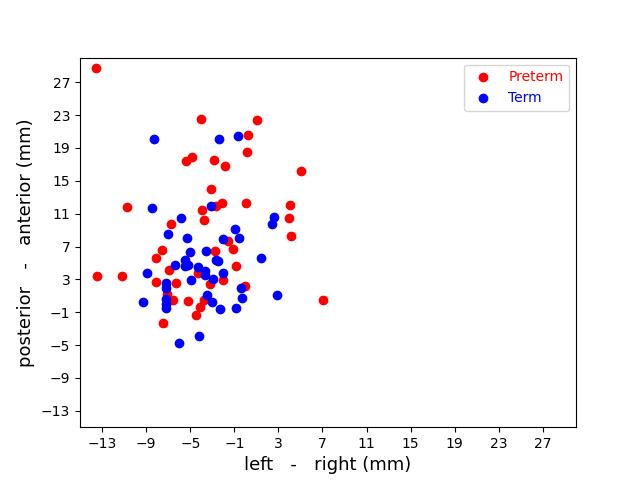
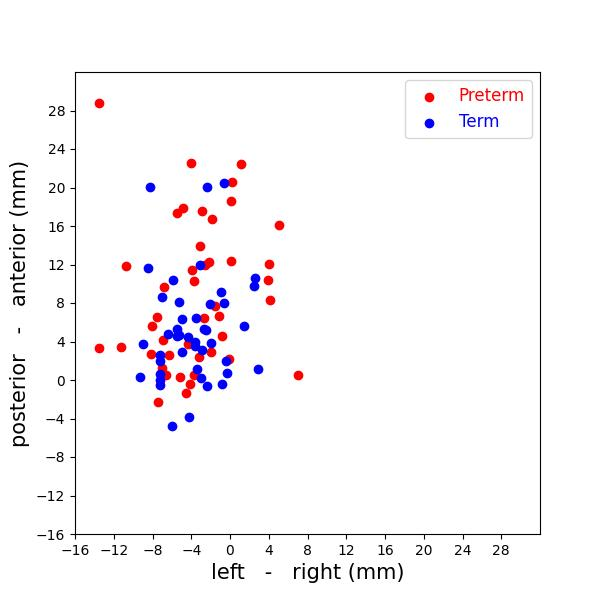
updates to previous

diff --git a/HEADCOIL/head_position/Centroid_plot.py b/HEADCOIL/head_position/Centroid_plot.py
@@ -49,24 +49,28 @@ print(f"The max of x prem is: {max(xprem)}")
 print()
 
 plt.figure(1)
+plt.subplots(figsize=(6, 6))
 # sns.kdeplot(x=(xprem), y=(yprem), color='red')
 # sns.kdeplot(x=(xterm), y=(yterm), color='blue')
 plt.scatter(x=(xprem), y=(yprem), c='red')
 plt.scatter(x=(xterm), y=(yterm), c='blue')
-plt.xticks(range(int(min(xprem)),int(max(yprem))+1,4))
-plt.yticks(range(int(min(xprem)),int(max(yprem))+1,4))
-plt.xlim([-15,30])
-plt.ylim([-15,30])
+# plt.xticks(range(int(min(xprem)),int(max(yprem))+1,4))
+# plt.yticks(range(int(min(xprem)),int(max(yprem))+1,4))
+plt.xticks(range(-16,32,4))
+plt.yticks(range(-16,32,4))
+
+plt.xlim([-16,32])
+plt.ylim([-16,32])
 # plt.title('Centroids of brainmasks', fontsize=15, fontweight="bold")
-plt.xlabel('left   -   right (mm)', fontsize=13)
-plt.ylabel('posterior   -   anterior (mm)', fontsize=13)
-plt.legend(('Preterm', 'Term'), loc='upper right', fontsize=10, labelcolor=('red', 'blue'))
+plt.xlabel('left   -   right (mm)', fontsize=15)
+plt.ylabel('posterior   -   anterior (mm)', fontsize=15)
+plt.legend(('Preterm', 'Term'), loc='upper right', fontsize=12, labelcolor=('red', 'blue'))
 
 ### Save out:
 plt.savefig('/dhcp/fmri_anna_graham/GKgit/head_position/FINGER/finger_figures/fingerfigures_misc/centroidplot.jpg')
 
-## If want to see the 3 participants who fingerprinted successfully:
-plt.scatter(x=(top_xprem), y=(top_yprem), c='yellow', marker="D") # To identfy 3 participants who fingerprinted
-plt.scatter(x=(top_xterm), y=(top_yterm), c='green', marker="D") # To identfy 3 participants who fingerprinted
-plt.savefig('/dhcp/fmri_anna_graham/GKgit/head_position/FINGER/finger_figures/fingerfigures_misc/centroidplot_tops.jpg')
+# ## If want to see the 3 participants who fingerprinted successfully:
+# plt.scatter(x=(top_xprem), y=(top_yprem), c='yellow', marker="D") # To identfy 3 participants who fingerprinted
+# plt.scatter(x=(top_xterm), y=(top_yterm), c='green', marker="D") # To identfy 3 participants who fingerprinted
+# plt.savefig('/dhcp/fmri_anna_graham/GKgit/head_position/FINGER/finger_figures/fingerfigures_misc/centroidplot_tops.jpg')
 

diff --git a/REGRESSOR/regressor_py/G_parameters.py b/REGRESSOR/regressor_py/G_parameters.py
@@ -22,7 +22,8 @@ import seaborn as sns
 parameters=np.load('/dhcp/fmri_anna_graham/GKgit/snr_npy/74691_params_snr_416_erode1.npy') # Edit name here!
 slopes=parameters[:,1:]
 med=np.median(slopes)
-print(f"The median of the 74691 slopes is: {med}")
+slope_mean=np.mean(slopes)
+print(f"The median of the 74691 slopes is: {med} and the mean is {slope_mean}")
 print()
 
 plt.figure(1)
@@ -32,11 +33,12 @@ plt.xlabel('Standardized Regression Coefficient')
 plt.savefig('/dhcp/fmri_anna_graham/GKgit/head_position/REGRESSOR/regressor_figures/74691_slopes_snr_416_erode1.jpg') # Edit name here!
 
 
-# ## For 48 participants with 2 sessions:
+# ### For 48 participants with 2 sessions:
 # parameters=np.load('/dhcp/fmri_anna_graham/GKgit/snr_npy/74691_params_snr_416_erode1_indep88.npy') # Edit name here!
 # slopes=parameters[:,1:]
 # med=np.median(slopes)
-# print(f"The median of the 74691 slopes is: {med}")
+# slope_mean=np.mean(slopes)
+# print(f"The median of the 74691 slopes is: {med} and the mean is {slope_mean}")
 # print()
 
 # plt.figure(1)

diff --git a/REGRESSOR/regressor_py/H_CS_regress_acrosssession.py b/REGRESSOR/regressor_py/H_CS_regress_acrosssession.py
@@ -32,10 +32,7 @@ if full:
     snrcoil=np.mean(snrcoil, axis=(1,2))
     snrtrue=np.mean(snrtrue, axis=(1,2))
 if split:
-    snrcoil=np.reshape(snrcoil, (48*2,2,387))
-    snrcoil=np.mean(snrcoil, axis=(2,3))
-    snrtrue=np.reshape(snrtrue, (48*2,2,387))
-    snrtrue=np.mean(snrtrue, axis=(2,3))
+    ssssss
 print()
 print(withinfc.shape)
 print(snrcoil.shape)
